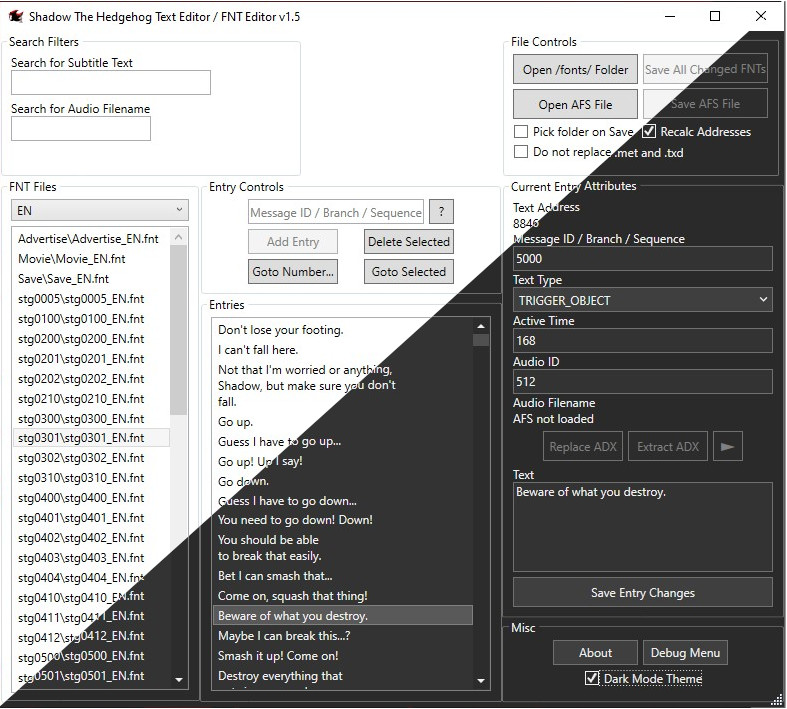
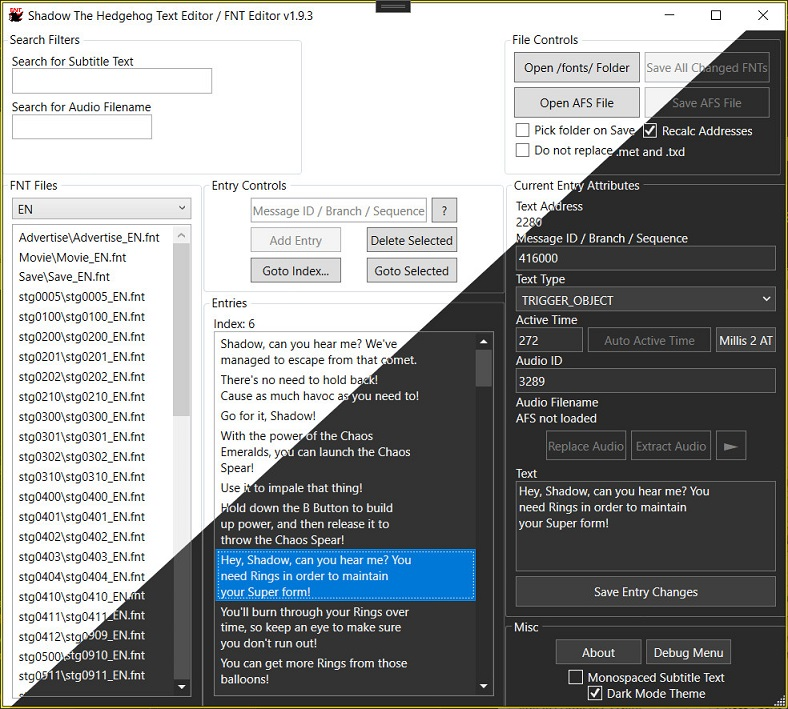
NET 10; Fix default publish args for single file; NAudio & AFSLib upgrade

Changed region(s): [[0.0, 0.0, 1.0, 1.0], [0.7319, 0.8068, 0.8844, 0.8688], [0.244, 0.0931, 0.2745, 0.1241]]

diff --git a/ShadowTH Text Editor/MainWindow.xaml b/ShadowTH Text Editor/MainWindow.xaml
@@ -6,7 +6,7 @@
         xmlns:local="clr-namespace:ShadowTH_Text_Editor"
         mc:Ignorable="d"
         x:Name="CoreWindow"
-        Title="Shadow The Hedgehog Text Editor / FNT Editor v1.9.2" Height="715" Width="800" MinWidth="600" MinHeight="715" MaxWidth="800" MaxHeight="715" ResizeMode="CanResizeWithGrip" Icon="ShadowFNT.ico" SizeChanged="Window_SizeChanged" Closed="CoreWindow_Closed">
+        Title="Shadow The Hedgehog Text Editor / FNT Editor v1.9.3" Height="715" Width="800" MinWidth="600" MinHeight="715" MaxWidth="800" MaxHeight="715" ResizeMode="CanResizeWithGrip" Icon="ShadowFNT.ico" SizeChanged="Window_SizeChanged" Closed="CoreWindow_Closed">
     <DockPanel>
         <StackPanel DockPanel.Dock="Top">
             <StackPanel Orientation="Horizontal">

diff --git a/README.md b/README.md
@@ -6,7 +6,7 @@
 
 
 ## Dependencies:
-* Requires [.NET 9 Desktop Runtime](https://aka.ms/dotnet-core-applaunch?missing_runtime=true&arch=x64&apphost_version=9.0.0&gui=true)
+* Requires [.NET 10 Desktop Runtime](https://aka.ms/dotnet-core-applaunch?missing_runtime=true&arch=x64&apphost_version=10.0.0&gui=true)
 
 ## Features:
 * Handles the entire /font folder (with locale support) for both the GameCube and Xbox versions
@@ -35,4 +35,4 @@
 
 ## Dev / How to build
 Release build with
-`dotnet publish -c Release --self-contained false /p:PublishSingleFile=true -p:TrimMode=CopyUsed --framework net9.0-windows7.0`
+`dotnet publish`
